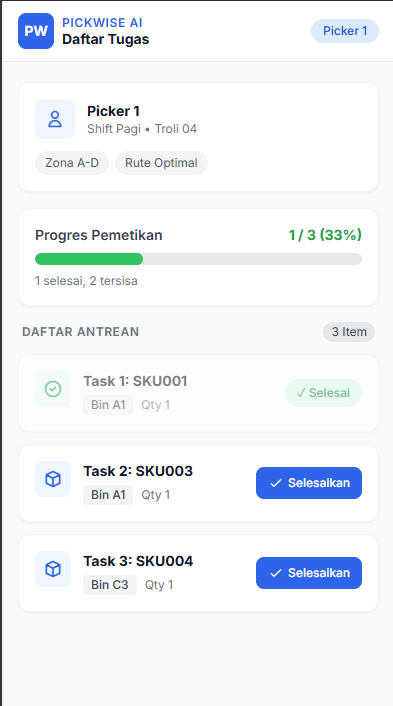
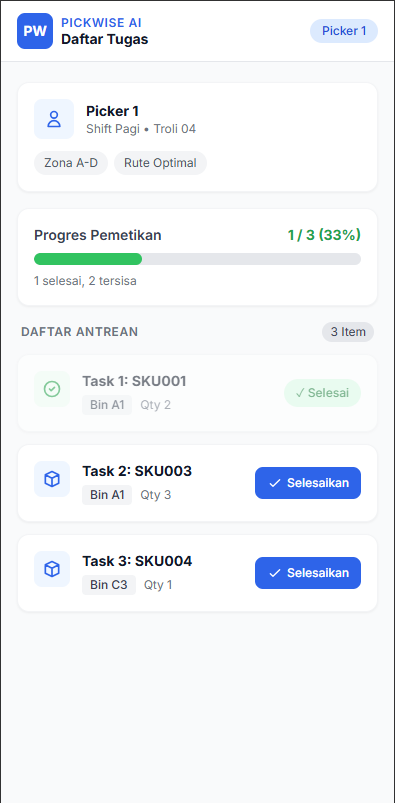
feat(ai): velocity, affinity, dynamic confidence; docs: update README

diff --git a/backend/main.py b/backend/main.py
@@ -1,12 +1,19 @@
 from fastapi import FastAPI, UploadFile, File, Request
 from fastapi.responses import HTMLResponse, JSONResponse
 from fastapi.templating import Jinja2Templates
-import csv, io
+import csv
+import io
 from ai.optimizer import optimize_routes
 
-app = FastAPI()
+app = FastAPI(
+    title="PickWise AI",
+    description="AI-powered picking route optimization for manual e-commerce warehouses",
+    version="1.0.0"
+)
+
 templates = Jinja2Templates(directory="frontend/templates")
 
+# In-memory data store (demo only)
 orders = []
 pickers = [
     {"picker_id": 1, "name": "Andi", "status": "available"},
@@ -14,40 +21,97 @@ pickers = [
 ]
 tasks = []
 
+
+# ---------------- Health Check ----------------
+@app.get("/health")
+async def health():
+    return {
+        "status": "ok",
+        "orders": len(orders),
+        "tasks": len(tasks),
+        "pickers": len(pickers)
+    }
+
+
+# ---------------- Order Import ----------------
 @app.post("/orders/import")
 async def import_orders(file: UploadFile = File(...)):
-    content = await file.read()
-    reader = csv.DictReader(io.StringIO(content.decode("utf-8")))
+    try:
+        content = await file.read()
+        reader = csv.DictReader(io.StringIO(content.decode("utf-8")))
+        rows = list(reader)
+    except Exception as e:
+        return JSONResponse(status_code=400, content={"error": f"Gagal membaca CSV: {str(e)}"})
+
+    if not rows:
+        return JSONResponse(status_code=400, content={"error": "File CSV kosong"})
+
+    required = {'order_id', 'sku', 'bin_location', 'qty'}
+    if not required.issubset(rows[0].keys()):
+        missing = required - set(rows[0].keys())
+        return JSONResponse(
+            status_code=400,
+            content={"error": f"Kolom wajib tidak ditemukan: {missing}"}
+        )
+
     global orders
-    orders = [row for row in reader]
+    orders = rows
     return {"status": "ok", "count": len(orders)}
 
+
+# ---------------- Optimize Routes ----------------
 @app.post("/optimize")
 async def optimize():
     global tasks
     try:
         result = optimize_routes(orders, pickers)
         tasks = result["tasks"]
-        return {"status": "ok", "tasks": tasks, "confidence": result["confidence"]}
+        return {
+            "status": "ok",
+            "tasks": tasks,
+            "confidence": result["confidence"],
+            "velocity": result["velocity"],
+            "affinity_pairs": result["affinity_pairs"]
+        }
     except ValueError as e:
         return JSONResponse(status_code=400, content={"error": str(e)})
 
+
+# ---------------- Picker Tasks ----------------
 @app.get("/picker/{picker_id}/tasks")
 async def get_tasks(picker_id: int):
     return [t for t in tasks if t["picker_id"] == picker_id]
+
 
 @app.post("/tasks/{task_id}/complete")
 async def complete_task(task_id: int):
     for t in tasks:
         if t["task_id"] == task_id:
             t["status"] = "completed"
-            return {"status": "ok"}
+            return {"status": "ok", "task_id": task_id}
     return JSONResponse(status_code=404, content={"error": "Task not found"})
+
+
+# ---------------- Frontend Pages ----------------
+@app.get("/", response_class=HTMLResponse)
+async def root(request: Request):
+    return HTMLResponse(
+        content='<h1>PickWise AI</h1>'
+                '<p>Buka <a href="/supervisor">/supervisor</a> atau '
+                '<a href="/picker/1">/picker/1</a></p>'
+                '<p>API docs: <a href="/docs">/docs</a></p>'
+    )
+
 
 @app.get("/supervisor", response_class=HTMLResponse)
 async def supervisor_page(request: Request):
     return templates.TemplateResponse(request=request, name="supervisor.html")
 
+
 @app.get("/picker/{picker_id}", response_class=HTMLResponse)
 async def picker_page(request: Request, picker_id: int):
-    return templates.TemplateResponse(request=request, name="picker.html", context={"picker_id": picker_id})
+    return templates.TemplateResponse(
+        request=request,
+        name="picker.html",
+        context={"picker_id": picker_id}
+    )

diff --git a/ai/optimizer.py b/ai/optimizer.py
@@ -1,15 +1,45 @@
-from collections import defaultdict
+from collections import defaultdict, Counter
+
+def compute_velocity(orders):
+    """Hitung frekuensi setiap SKU (SKU velocity)."""
+    counter = Counter(o['sku'] for o in orders)
+    return dict(counter)
+
+def compute_affinity(orders):
+    """Hitung pasangan SKU yang sering muncul bersama (SKU affinity)."""
+    affinity = defaultdict(int)
+    order_groups = defaultdict(set)
+    for o in orders:
+        order_groups[o['order_id']].add(o['sku'])
+    for skus in order_groups.values():
+        skus = list(skus)
+        for i in range(len(skus)):
+            for j in range(i + 1, len(skus)):
+                pair = tuple(sorted([skus[i], skus[j]]))
+                affinity[pair] += 1
+    return dict(affinity)
 
 def optimize_routes(orders, pickers):
+    if not orders:
+        raise ValueError("Tidak ada order untuk dioptimasi")
     if any(not o.get('bin_location') for o in orders):
-        raise ValueError("Digitasi bin diperlukan")
+        raise ValueError("Digitasi bin diperlukan: ada order tanpa bin_location")
 
+    # 1. Hitung velocity & affinity
+    velocity = compute_velocity(orders)
+    affinity = compute_affinity(orders)
+
+    # 2. Group orders by bin
     bins = defaultdict(list)
     for o in orders:
         bins[o['bin_location']].append(o)
 
-    sorted_bins = sorted(bins.keys())
+    # 3. Sort bin berdasarkan total velocity
+    def bin_velocity(bin_loc):
+        return sum(velocity.get(o['sku'], 0) for o in bins[bin_loc])
+    sorted_bins = sorted(bins.keys(), key=bin_velocity, reverse=True)
 
+    # 4. Assign ke picker (round-robin)
     tasks = []
     task_id = 1
     for i, picker in enumerate(pickers):
@@ -21,10 +51,20 @@ def optimize_routes(orders, pickers):
                     "order_id": order["order_id"],
                     "sku": order["sku"],
                     "bin_location": bin_loc,
+                    "qty": order.get("qty", 1),
                     "sequence": task_id,
                     "status": "pending"
                 })
                 task_id += 1
 
-    confidence = 0.75
-    return {"tasks": tasks, "confidence": confidence}
+    # 5. Confidence dinamis
+    batched = sum(1 for b in bins.values() if len(b) > 1)
+    total_bins = len(bins)
+    confidence = round(batched / total_bins, 2) if total_bins else 0.5
+
+    return {
+        "tasks": tasks,
+        "confidence": confidence,
+        "velocity": velocity,
+        "affinity_pairs": len(affinity)
+    }

diff --git a/README.md b/README.md
@@ -8,4 +8,34 @@ AI-powered picking route optimization for manual e-commerce warehouses.
 3. Open `http://localhost:8000/supervisor` and `http://localhost:8000/picker/1`
 
 ## Demo
-See `/demo` for sample input and output.
+- Input: `/demo/input_orders.csv`
+- Output: `/demo/output_routes.json`
+
+## Architecture
+See [ARCHITECTURE.md](ARCHITECTURE.md)
+
+## AI Workflow
+See [docs/AI_WORKFLOW.md](docs/AI_WORKFLOW.md)
+
+## Testing
+See [docs/TESTING.md](docs/TESTING.md)
+
+## Screenshots
+- Mockups (Stitch): `/docs/screenshots/supervisor_mockup.png`, `/docs/screenshots/picker_mockup.png`
+- Implementation: `/docs/screenshots/supervisor.png`, `/docs/screenshots/picker.png`
+
+## Tech Stack
+- Backend: FastAPI
+- Frontend: HTML + Tailwind CDN
+- AI: Python heuristic (velocity, affinity, batching, routing)
+- Data: In-memory
+
+## API Endpoints
+| Method | Path | Description |
+|--------|------|-------------|
+| POST | `/orders/import` | Upload CSV orders |
+| POST | `/optimize` | Run AI optimization |
+| GET | `/picker/{id}/tasks` | Get tasks for picker |
+| POST | `/tasks/{id}/complete` | Mark task complete |
+| GET | `/health` | Health check |
+| GET | `/docs` | Swagger UI |
